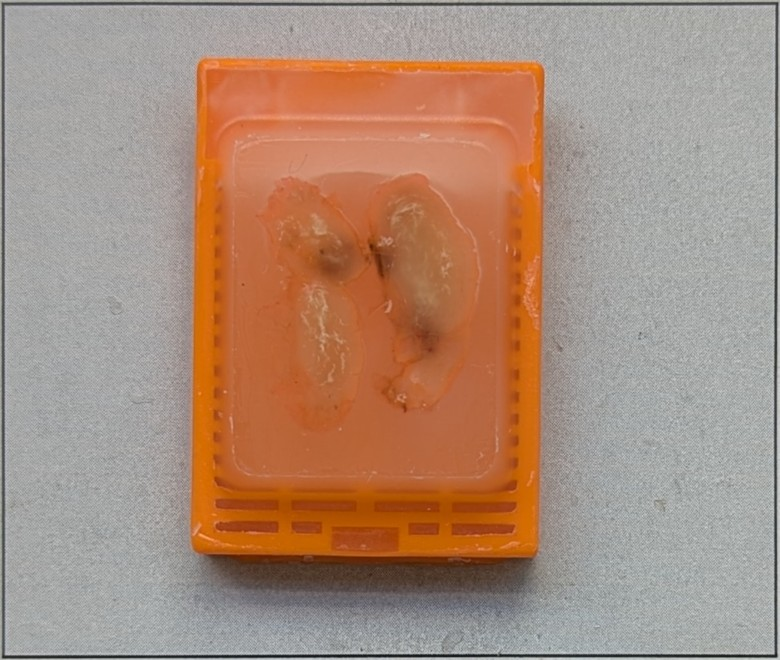
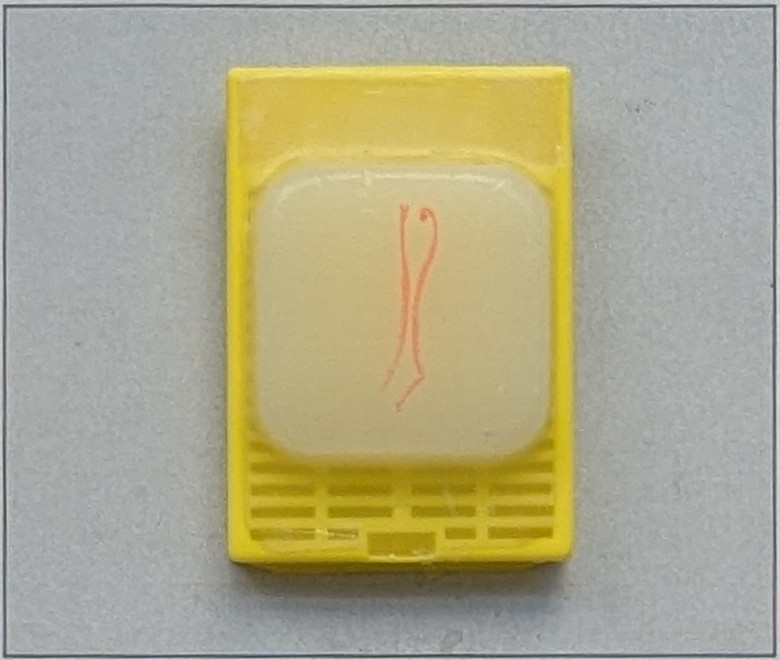
Use preferred tissue block in the scoring demonstration

diff --git a/tools/render_readme.py b/tools/render_readme.py
@@ -76,9 +76,9 @@ def main():
                 page.wait_for_function('() => typeof state!=="undefined" && !!state')
                 page.evaluate('''photo => {
                     state=emptyExperiment('Pilot');
-                    const points=[[[282,225],[338,211],[355,276],[300,290]],[[386,230],[443,214],[460,283],[403,299]]];
+                    const points=[[[394,201],[416,202],[415,340],[388,387],[377,381],[397,337]],[[419,204],[440,214],[441,260],[427,324],[438,378],[399,418],[388,406],[419,374],[412,325],[427,259]]];
                     const b={id:'demo-block',name:'DEMO-B1',donor:'',photo,identifier:null,mmPerPx:65/780,calibration:null,orientation:'Label end up',notes:'Synthetic demonstration',scores:[],regions:points.map((p,i)=>({id:'piece-'+i,name:'DEMO-B1 / '+(i+1),points:p,color:['#ca9987','#a7baa3'][i]}))};
-                    state.blocks=[b];state.slides[0].placements=points.map((p,i)=>({id:'place-'+i,regionId:'piece-'+i,x:i?6:4,y:i?16:6.5,angle:i?-4:-8,mirror:false,confirmed:true,section:'Section '+(i+1)}));
+                    state.blocks=[b];state.slides[0].placements=points.map((p,i)=>({id:'place-'+i,regionId:'piece-'+i,x:i?7:2.7,y:i?11.5:10.2,angle:0,mirror:false,confirmed:true,section:'Section '+(i+1)}));
                     // Additional demonstration blocks create a multiplexed layout.
                     // Sizes are in millimetres; the photographed block keeps its real scale.
                     const patches=[
@@ -93,7 +93,17 @@ def main():
                         const outline=[[0,.15*h],[.65*w,0],[w,.25*h],[.9*w,.85*h],[.35*w,h],[0,.7*h]];
                         const region={id:'multiplex-'+i,name:'DEMO-B'+(i+2),points:outline,color:palette[i%palette.length]};
                         state.blocks.push({id:'other-block-'+i,name:region.name,donor:'',photo:null,identifier:null,mmPerPx:1,calibration:null,orientation:'Demonstration',notes:'Illustrative tissue geometry',scores:[],regions:[region]});
-                        state.slides[0].placements.push({id:'other-place-'+i,regionId:region.id,x,y,angle,mirror:false,confirmed:true,section:'Section 1'});
+                        const placement={id:'other-place-'+i,regionId:region.id,x,y,angle,mirror:false,confirmed:true,section:'Section 1'};
+                        const fits=()=>{const polygon=placed(placement);return polygon.every(([px,py])=>px>=.5&&px<=9.5&&py>=.5&&py<=21.5)&&state.slides[0].placements.every(other=>Geo.distance(polygon,placed(other))>.5)};
+                        if(!fits()){
+                            let found=false;
+                            search:for(const rotation of [angle,0,90])for(let py=1;py<=21;py+=.3)for(let px=1;px<=9;px+=.3){
+                                Object.assign(placement,{x:px,y:py,angle:rotation});
+                                if(fits()){found=true;break search}
+                            }
+                            if(!found)throw Error('Demonstration tissue does not fit');
+                        }
+                        state.slides[0].placements.push(placement);
                     });
                     blockId=b.id;slideId=state.slides[0].id;selected=null;tab='slides';save();render();
                     const problems=issues(currentSlide()).filter(message=>/outside permitted|true polygon overlap|clearance is/.test(message));
